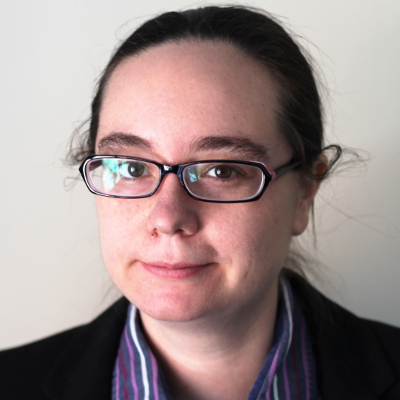
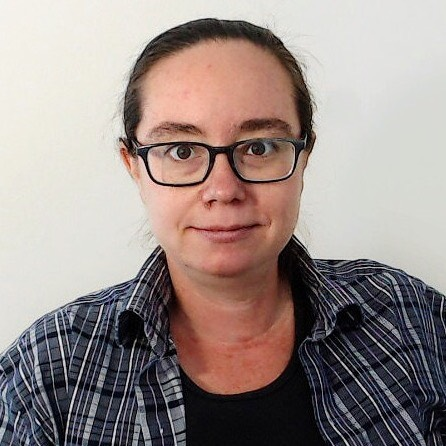
Rearrange site, add personal data api

diff --git a/_includes/personal-api.html b/_includes/personal-api.html
@@ -1,0 +1,100 @@
+<script src="https://ajax.googleapis.com/ajax/libs/jquery/3.3.1/jquery.min.js"></script>
+<link rel="stylesheet" href="https://use.fontawesome.com/releases/v5.5.0/css/all.css" integrity="sha384-B4dIYHKNBt8Bc12p+WXckhzcICo0wtJAoU8YZTY5qE0Id1GSseTk6S+L3BlXeVIU" crossorigin="anonymous">
+<style>
+   .invisible {
+     visibility: hidden;
+   }
+</style>
+
+<div style="text-align:center;">
+  <div style="display:inline-block;color:#888;border:solid 2px #eee;border-radius:10px;font-size:80%;padding:10px 20px;">
+    <span id='json_url' href='https://my-personal-api.herokuapp.com/data/81065637/'></span>
+    <div id='location_info' class='invisible'>
+      Mad's currently in <span id='location_name'></span>.
+    </div>
+    <div id='time_info' class='invisible'>
+      The local time is <i class="far fa-clock"></i>
+      <span id='local_time'></span> (<span id='time_zone'></span>).
+    </div>
+    <div id='weather' class='invisible'>
+      The weather is
+        <i><i id='condition_icon'></i> <span id='weather_condition'></span></i>
+        and <span id='weather_temperature_f'></span>˚F
+        (<span id='weather_temperature_c'></span>˚C).</span>
+    </div>
+    <div id='battery_info' class='invisible'>
+      Their phone is <i id='battery_icon'></i>
+      <span id='battery_level'></span>% charged and is currently
+      <span id='battery_state'></span>.
+    </div>
+    <div id='music_info' class='invisible'>
+      They recently jammed to <i class="fas fa-music"></i>
+      <i><span id='title'></span></i> by <span id='artist'></span>.
+    </div>
+  </div>
+  <center>
+    <span style="font-size:75%;color:#888;">
+      Want something like this on your page? Check out the
+      <a href="https://my-personal-api.herokuapp.com/">Personal API</a>!
+    </span>
+  </center>
+</div>
+
+<script>
+console.log("hello whirled");
+$(function(){
+    var json_url = $('#json_url').attr('href');
+    $.get(json_url, function(data){
+        console.log(data);
+        if(data.location.tz){
+          console.log("Yes TZ");
+
+          var local_time = new Date( new Date().getTime() + data.location.tz_offset * 1000).toUTCString().replace( / GMT$/, "" ).substring(17,22);
+          $("#time_info").removeClass('invisible');
+          $("#local_time").html(local_time);
+          $("#time_zone").html(data.location.tz);
+        };
+        if(data.location.place){
+          $("#location_name").html(data.location.place);
+          $("#location_info").removeClass('invisible');
+        };
+
+        if(data.location.weather){
+          var weather_temperature_f = data.location.weather.temperature_outside * 9.0 / 5.0 + 32.0;
+          $("#weather_condition").html(data.location.weather.condition_text);
+          $("#weather_temperature_f").html(weather_temperature_f);
+          $("#weather_temperature_c").html(data.location.weather.temperature_outside);
+          $("#condition_icon").attr("class", "wi wi-yahoo-" + data.location.weather.code);
+          $("#weather").removeClass('invisible');
+        };
+
+        if(data.location.battery_level){
+          console.log('battery');
+          var battery_level = data.location.battery_level*100;
+          if(battery_level<10){
+            $("#battery_icon").attr("class", "fas fa-battery-empty");
+          } else if (battery_level < 30){
+            $("#battery_icon").attr("class", "fas fa-battery-quarter");
+          } else if (battery_level < 60){
+            console.log('battery_should_be_half');
+            $("#battery_icon").attr("class", "fas fa-battery-half");
+          } else if (battery_level < 85){
+            $("#battery_icon").attr("class", "fas fa-battery-three-quarters");
+          } else {
+            $("#battery_icon").attr("class", "fas fa-battery-full");
+          };
+          $("#battery_level").html(Math.floor(battery_level));
+          $("#battery_state").html(data.location.battery_state);
+          $("#battery_info").removeClass('invisible');
+        }
+
+      if(data.music){
+        $("#title").html(data.music.title);
+        $("#artist").html(data.music.artist);
+        $("#music_info").removeClass('invisible');
+      };
+
+    });
+
+});
+</script>

diff --git a/index.html b/index.html
@@ -1,22 +1,119 @@
 ---
-layout: default
+layout: fellow
+title: About
 ---
 
 <div class="home">
 
-  <h1 class="post-title">Articles</h1>
+  {% include personal-api.html %}
 
-  <ul class="post-list">
-    {% for post in paginator.posts %}
-      <li>
-        <h2>
-          <a class="post-link" href="{{ post.url | prepend: site.baseurl }}">{{ post.title }}</a>
-          <span class="post-meta"><small>{{ post.date | date: "%b %-d, %Y" }}</small></span>
-        </h2>
+  <style>
+  .about-page-img {
+      float: right;
+      width: 30%;
+      margin-left: 25px;
+      margin-bottom: 8px;
+  }
+  .about-hr {
+    margin: 30px 0px;
+    border:1px solid #ccc;
+    border-width:0px 0px 1px;
+  }
+  </style>
 
-      </li>
+  <hr class="about-hr">
 
-    {% endfor %}
+  <h2 class="post-title">About me</h2>
+
+  <img class="about-page-img" src="/images/madpriceball-photo.jpg">
+
+  <p>
+    I am Executive Director and President of
+    <a href="http://openhumansfoundation.org">Open Humans Foundation</a>
+    and co-founder of <a href="https://www.openhumans.org">Open Humans</a>.
+    My work is funded by a
+    <a href="https://shuttleworthfoundation.org/fellows/mad-ball/">Shuttleworth
+    Foundation Fellowship</a>,
+    which supports my vision for applying "open" principles to change how we
+    share and study health and personal data.
+  </p>
+
+  <p>
+    I combine advocacy and technology to explore new,
+    participant-centered approaches for health and personal data sharing,
+    research, and citizen science. My work is multifaceted: I collaborate
+    with diverse research teams and citizen scientists, perform outreach through
+    writing and speaking, and oversee Open Humans technical development and
+    operations.
+  </p>
+
+  <p>
+    More about me:
+  </p>
+
+  <ul>
+    <li>
+      <a href="/files/resume.pdf">Current resume</a>
+    </li>
+    <li>
+      <a href="/from-personal-data-to-collective-power/">
+        From Personal Data to Collective Power</a> (talk &amp; transcript)
+    </li>
+    <li>
+      <a href="/introducing-myself-as-executive-director/">
+        About me and my vision</a> (written when I became Executive Director)
+    </li>
   </ul>
 
-{% include pagination.html %}
+  <hr class="about-hr">
+
+  <h2>About Open Humans</h2>
+
+  <img class="about-page-img" src="/images/open-humans-logo.png">
+
+  <p>
+    <a href="https://www.openhumans.org/">Open Humans</a>
+    is a nonprofit project that combines technology and
+    community to advance an open and participant-centric
+    approach to human subjects research. By working with
+    the individuals who are contributing to research,
+    we can enable new ways to share data and new
+    approaches to doing science.
+  </p>
+
+  <p>
+    Open Humans is a program of the
+    <a href="http://openhumansfoundation.org">Open Humans Foundation</a>,
+    a 501(c)(3) nonprofit organization dedicated to making a
+    wide spectrum of data about humans accessible to increase
+    biological literacy and improve human health.
+  </p>
+
+  <p>
+    Open Humans enables diverse new approaches to research and more,
+    including:
+  </p>
+
+  <ul>
+    <li>
+      <b>An "open cohort" approach</b><br>
+      where individuals join multiple studies, and can share
+      data between them.
+    </li>
+    <li>
+      <b>Giving data to participants</b><br>
+      so they can explore their own data &ndash; and
+      choose when to share with others.
+    </li>
+    <li>
+      <b>External data sources</b><br>
+      enabling volunteers to initiate new data streams.
+    </li>
+    <li>
+      <b>Citizen-led projects</b><br> that work with members
+      and their data, e.g. data commons, data exploration,
+      and citizen science.
+    </li>
+  </ul>
+  <hr class="about-hr">
+</div>

diff --git a/_includes/header.html b/_includes/header.html
@@ -6,8 +6,8 @@
     <a href="{{ site.baseurl }}/"><h1 class="site-title">{{ site.title }}</h1></a>
     <nav class="site-nav">
     <!-- <a href="https://github.com/sharu725/vyaasa" class="nav-link">Project</a> -->
-    <a href="{{site.baseurl}}/" class="nav-link">Blog posts</a>
-    <a href="{{site.baseurl}}/about/" class="nav-link">About</a>
+    <a href="{{site.baseurl}}/" class="nav-link">About</a>
+    <a href="{{site.baseurl}}/blog/" class="nav-link">Blog posts</a>
     <a href="{{site.baseurl}}/contact/" class="nav-link">Contact</a>
     </nav>
 

diff --git a/blog/index.html b/blog/index.html
@@ -1,0 +1,24 @@
+---
+layout: fellow
+title: Blog
+---
+
+<div class="home">
+
+  <h1 class="post-title">Articles</h1>
+
+  <ul class="post-list">
+    {% for post in paginator.posts %}
+      <li>
+        <h2>
+          <a class="post-link" href="{{ post.url | prepend: site.baseurl }}">{{ post.title }}</a>
+          <span class="post-meta"><small>{{ post.date | date: "%b %-d, %Y" }}</small></span>
+        </h2>
+
+      </li>
+
+    {% endfor %}
+  </ul>
+
+  {% include pagination.html %}
+</div>

diff --git a/_includes/head.html b/_includes/head.html
@@ -2,7 +2,6 @@
   <meta charset="utf-8">
   <meta http-equiv="X-UA-Compatible" content="IE=edge">
   <meta name="viewport" content="width=device-width, initial-scale=1">
-{% seo %}
  <link href="https://fonts.googleapis.com/css?family=Alfa+Slab+One%7CSource+Serif+Pro" rel="stylesheet">
   <link rel="stylesheet" href="{{ "/css/main.css" | prepend: site.baseurl }}">
   <link rel="stylesheet" href="{{ "/css/syntax-highlighter.css" | prepend: site.baseurl }}">

diff --git a/_includes/pagination.html b/_includes/pagination.html
@@ -1,5 +1,5 @@
 {% if paginator.total_pages > 1 %}
-<div class="pagination"> 
+<div class="pagination">
   {% if paginator.previous_page %}
     <a href="{{ paginator.previous_page_path | prepend: site.baseurl | replace: '//', '/' }}">&laquo; Prev</a>
   {% else %}
